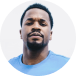
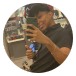
testimoni pics

diff --git a/index.html b/index.html
@@ -43,11 +43,11 @@
                         </li>
         
                         <li class="font-semibold text-white text-lg hover:text-gray-400 transition ease-in-out duration-300 mb-5 lg:mb-0">
-                            <a id="scrollToSection" href="#">Contato</a>
+                            <a id="scrollToSection3" href="#">Contato</a>
                         </li>
         
                         <li class="font-semibold text-white text-lg hover:text-gray-400 transition ease-in-out duration-300 mb-5 lg:mb-0">
-                            <a href="#">Sobre</a>
+                            <a id="scrollToSection9" href="#">Comentários</a>
                         </li>
 
                     </ul>
@@ -228,7 +228,7 @@
                     <div class="text-center lg:text-left mb-12 lg:mb-20 md:mb-16"> <!-- Ajustei as margens inferior para diferentes tamanhos de tela -->
                         <h1 class="font-semibold text-white text-4xl md:text-5xl lg:text-7xl leading-normal mb-6 md:mb-8 mx-8">Fale conosco <br> e agende sua viagem!</h1>
             
-                        <p class="font-normal text-white text-md md:text-xl mx-8">Nossas redes sociais!</p>
+                        <p class="font-normal text-white text-md md:text-xl mx-8">Nossas redes sociais:</p>
                     </div>
             
                     <div class="flex flex-col justify-evenly items-center md:space-x-0 space-y-6 mx-10 mt-6 lg:mt-0"> <!-- Ajustei a margem superior -->
@@ -284,9 +284,9 @@
                             <i data-feather="star" class="text-yellow-500"></i>
                         </div>
 
-                        <p class="font-normal text-sm lg:text-md text-gray-400 mx-8 my-8">A aaaaaaaaaaaaaa aaaaaaaaaaa aaaaaa<br> B bbbbbbbb bbbbbbbbbb bbbbbbbbbbbbb <br> cc ccccccccc ccccccccccccccccccccc </p>
+                        <p class="font-normal text-sm lg:text-md text-gray-400 mx-8 my-8">Melhor empresa do ramo de <br> viagens,  fui e recomendo!</p>
 
-                        <h3 class="font-semibold text-gray-900 text-xl md:text-2xl lg:text-3xl mx-8 mb-8">Brooklyn Simmons</h3>
+                        <h3 class="font-semibold text-gray-900 text-xl md:text-2xl lg:text-3xl mx-8 mb-8">Gabriel Lima</h3>
                     </div>
 
                     <div class="bg-white rounded-lg">
@@ -300,9 +300,9 @@
                             <i data-feather="star" class="text-yellow-500"></i>
                         </div>
 
-                        <p class="font-normal text-sm lg:text-md text-gray-400 mx-8 my-8">D ddddddddddd ddddddddddddddddd dddddddddd<br> ffffffffffvfffffffffffvfffffffffffffffffff<br> gggggggggggvgggggv gggg</p>
+                        <p class="font-normal text-sm lg:text-md text-gray-400 mx-8 my-8">Atenciosos do início ao, <br> fim! Recomendo demais.</p>
 
-                        <h3 class="font-semibold text-gray-900 text-xl md:text-2xl lg:text-3xl mx-8 mb-8">Ralph Edwards</h3>
+                        <h3 class="font-semibold text-gray-900 text-xl md:text-2xl lg:text-3xl mx-8 mb-8">Lucas Emanuel</h3>
                     </div>
 
                 </div>
@@ -340,15 +340,11 @@
                     <div class="text-center lg:text-center mb-10 lg:mb-0">
                         <h4 class="font-semibold text-white text-2xl mb-6">Site</h4>
 
-                        <a id="scrollToSection5" href="#" class="block font-light text-white text-xl mb-6 hover:text-gray-800 transition ease-in-out duration-300">Vantagens</a>
+                        <a id="scrollToSection6" href="#" class="block font-light text-white text-xl mb-6 hover:text-gray-800 transition ease-in-out duration-300">Vantagens</a>
                         
-                        <a id="scrollToSection4" href="#" class="block font-light text-white text-xl mb-6 hover:text-gray-800 transition ease-in-out duration-300">Destinos</a>
+                        <a id="scrollToSection8" href="#" class="block font-light text-white text-xl mb-6 hover:text-gray-800 transition ease-in-out duration-300">Destinos</a>
 
-                        <a id="scrollToSection3" href="#" class="block font-light text-white text-xl mb-6 hover:text-gray-800 transition ease-in-out duration-300">Opiniões</a>
-
-                        <a href="#" class="block font-light text-white text-xl mb-6 hover:text-gray-800 transition ease-in-out duration-300">Privacidade</a>
-                        
-                        <a href="#" class="block font-light text-white text-xl mb-6 hover:text-gray-800 transition ease-in-out duration-300">Termos e condições</a>
+                        <a id="scrollToSection7" href="#" class="block font-light text-white text-xl mb-6 hover:text-gray-800 transition ease-in-out duration-300">Comentários</a>
                     </div>
                 </div>
             </div> <!-- container.// -->
@@ -366,7 +362,7 @@
             });
 
             $(document).ready(function () {
-               $("#scollToSection2").on("click", function () {
+               $("#scrollToSection2").on("click", function () {
                   $('html, body').animate({
                      scrollTop: $("#faleConosco").offset().top
                   }, 1000); // O número 1000 representa a duração da animação em milissegundos
@@ -377,7 +373,7 @@
                $("#scrollToSection3").on("click", function () {
                   $('html, body').animate({
                      scrollTop: $("#opinioes").offset().top
-                  }, 500); // O número 1000 representa a duração da animação em milissegundos
+                  }, 1000); // O número 1000 representa a duração da animação em milissegundos
                });
             });
             $(document).ready(function () {
@@ -391,6 +387,34 @@
                $("#scrollToSection5").on("click", function () {
                   $('html, body').animate({
                      scrollTop: $("#vantagens").offset().top
+                  }, 1000); // O número 1000 representa a duração da animação em milissegundos
+               });
+            });
+            $(document).ready(function () {
+               $("#scrollToSection6").on("click", function () {
+                  $('html, body').animate({
+                     scrollTop: $("#vantagens").offset().top
+                  }, 1000); // O número 1000 representa a duração da animação em milissegundos
+               });
+            });
+            $(document).ready(function () {
+               $("#scrollToSection7").on("click", function () {
+                  $('html, body').animate({
+                     scrollTop: $("#opinioes").offset().top
+                  }, 700); // O número 1000 representa a duração da animação em milissegundos
+               });
+            });
+            $(document).ready(function () {
+               $("#scrollToSection8").on("click", function () {
+                  $('html, body').animate({
+                     scrollTop: $("#destinos").offset().top
+                  }, 800); // O número 1000 representa a duração da animação em milissegundos
+               });
+            });
+            $(document).ready(function () {
+               $("#scrollToSection9").on("click", function () {
+                  $('html, body').animate({
+                     scrollTop: $("#opinioes").offset().top
                   }, 1000); // O número 1000 representa a duração da animação em milissegundos
                });
             });
